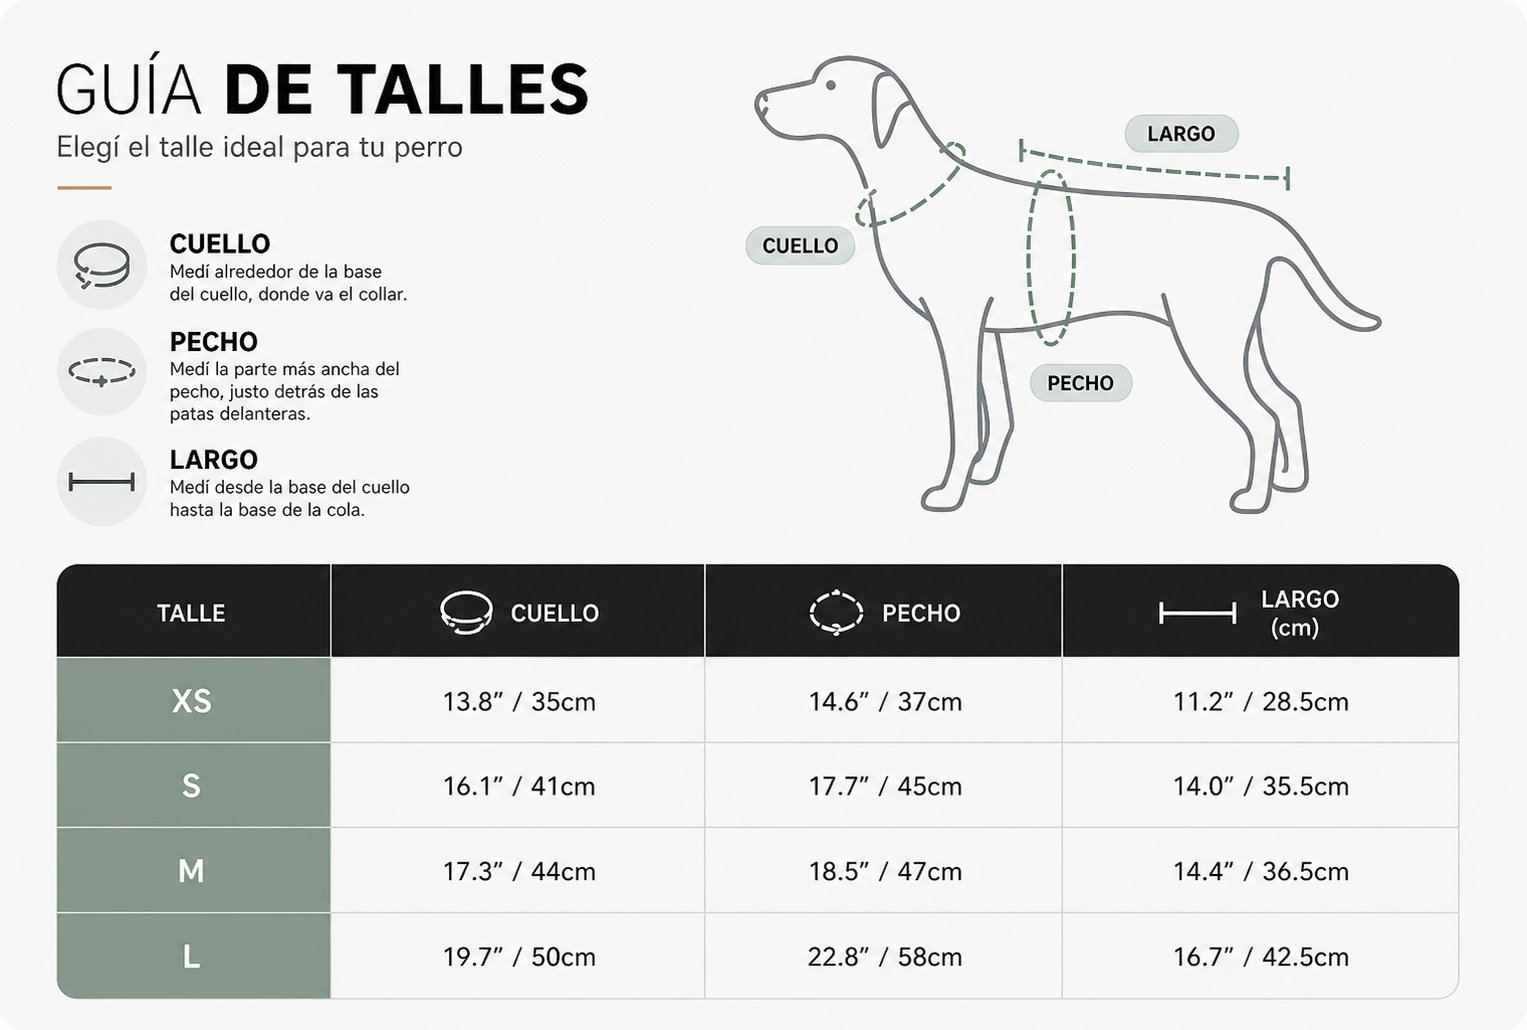
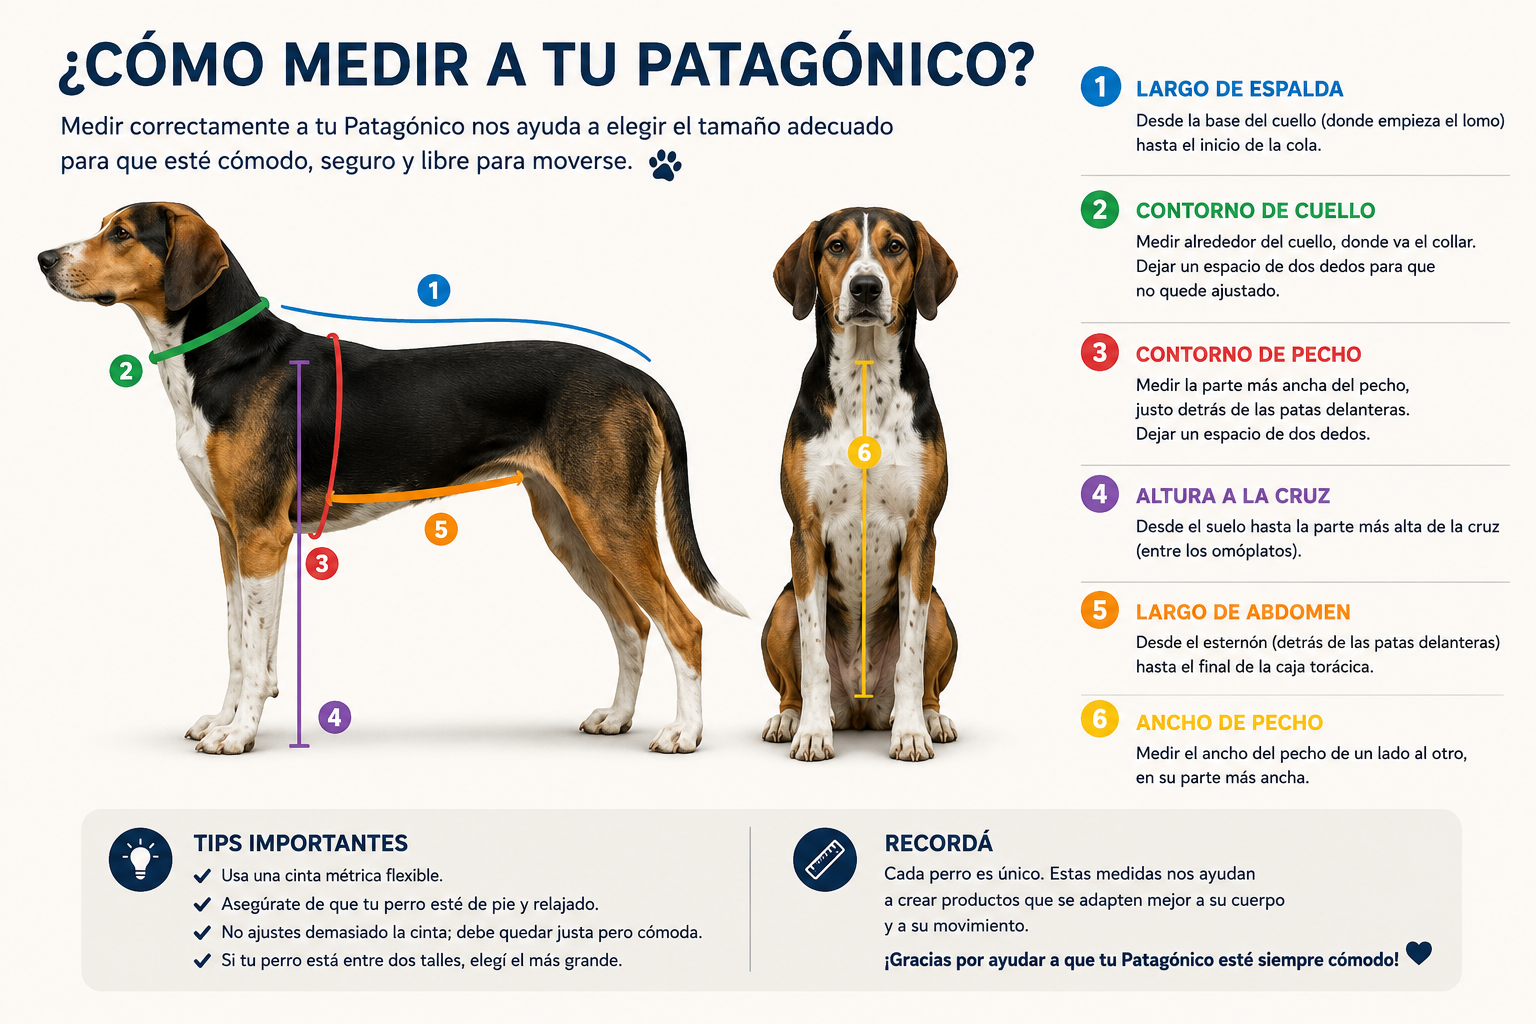
Fix Netlify deploy file paths

diff --git a/components/products/product-detail.tsx b/components/products/product-detail.tsx
@@ -1109,8 +1109,8 @@ export function ProductDetail({
           <div className="relative w-full max-w-5xl overflow-hidden rounded-[32px] bg-white shadow-[0_30px_80px_rgba(0,0,0,0.18)]">
             <div className="flex items-center justify-between border-b border-black/8 px-6 py-4">
               <div>
-                <p className="text-[11px] uppercase tracking-[0.18em] text-black/45">Guía de talles</p>
-                <h3 className="mt-1 font-display text-2xl tracking-[-0.04em]">Elegí el talle ideal</h3>
+                <p className="text-[11px] uppercase tracking-[0.18em] text-black/45">Guía de medición</p>
+                <h3 className="mt-1 font-display text-2xl tracking-[-0.04em]">Cómo medir a tu Patagónico</h3>
               </div>
               <button
                 type="button"
@@ -1124,7 +1124,7 @@ export function ProductDetail({
             <div className="relative aspect-[16/11] w-full bg-[#f6f6f2]">
               <Image
                 src="/size-guide-modal.png"
-                alt="Guía de talles con medidas de cuello, pecho y largo para XS, S, M y L"
+                alt="Guía para medir a tu Patagónico con referencias de largo, cuello, pecho, cruz y abdomen"
                 fill
                 sizes="100vw"
                 className="object-contain"